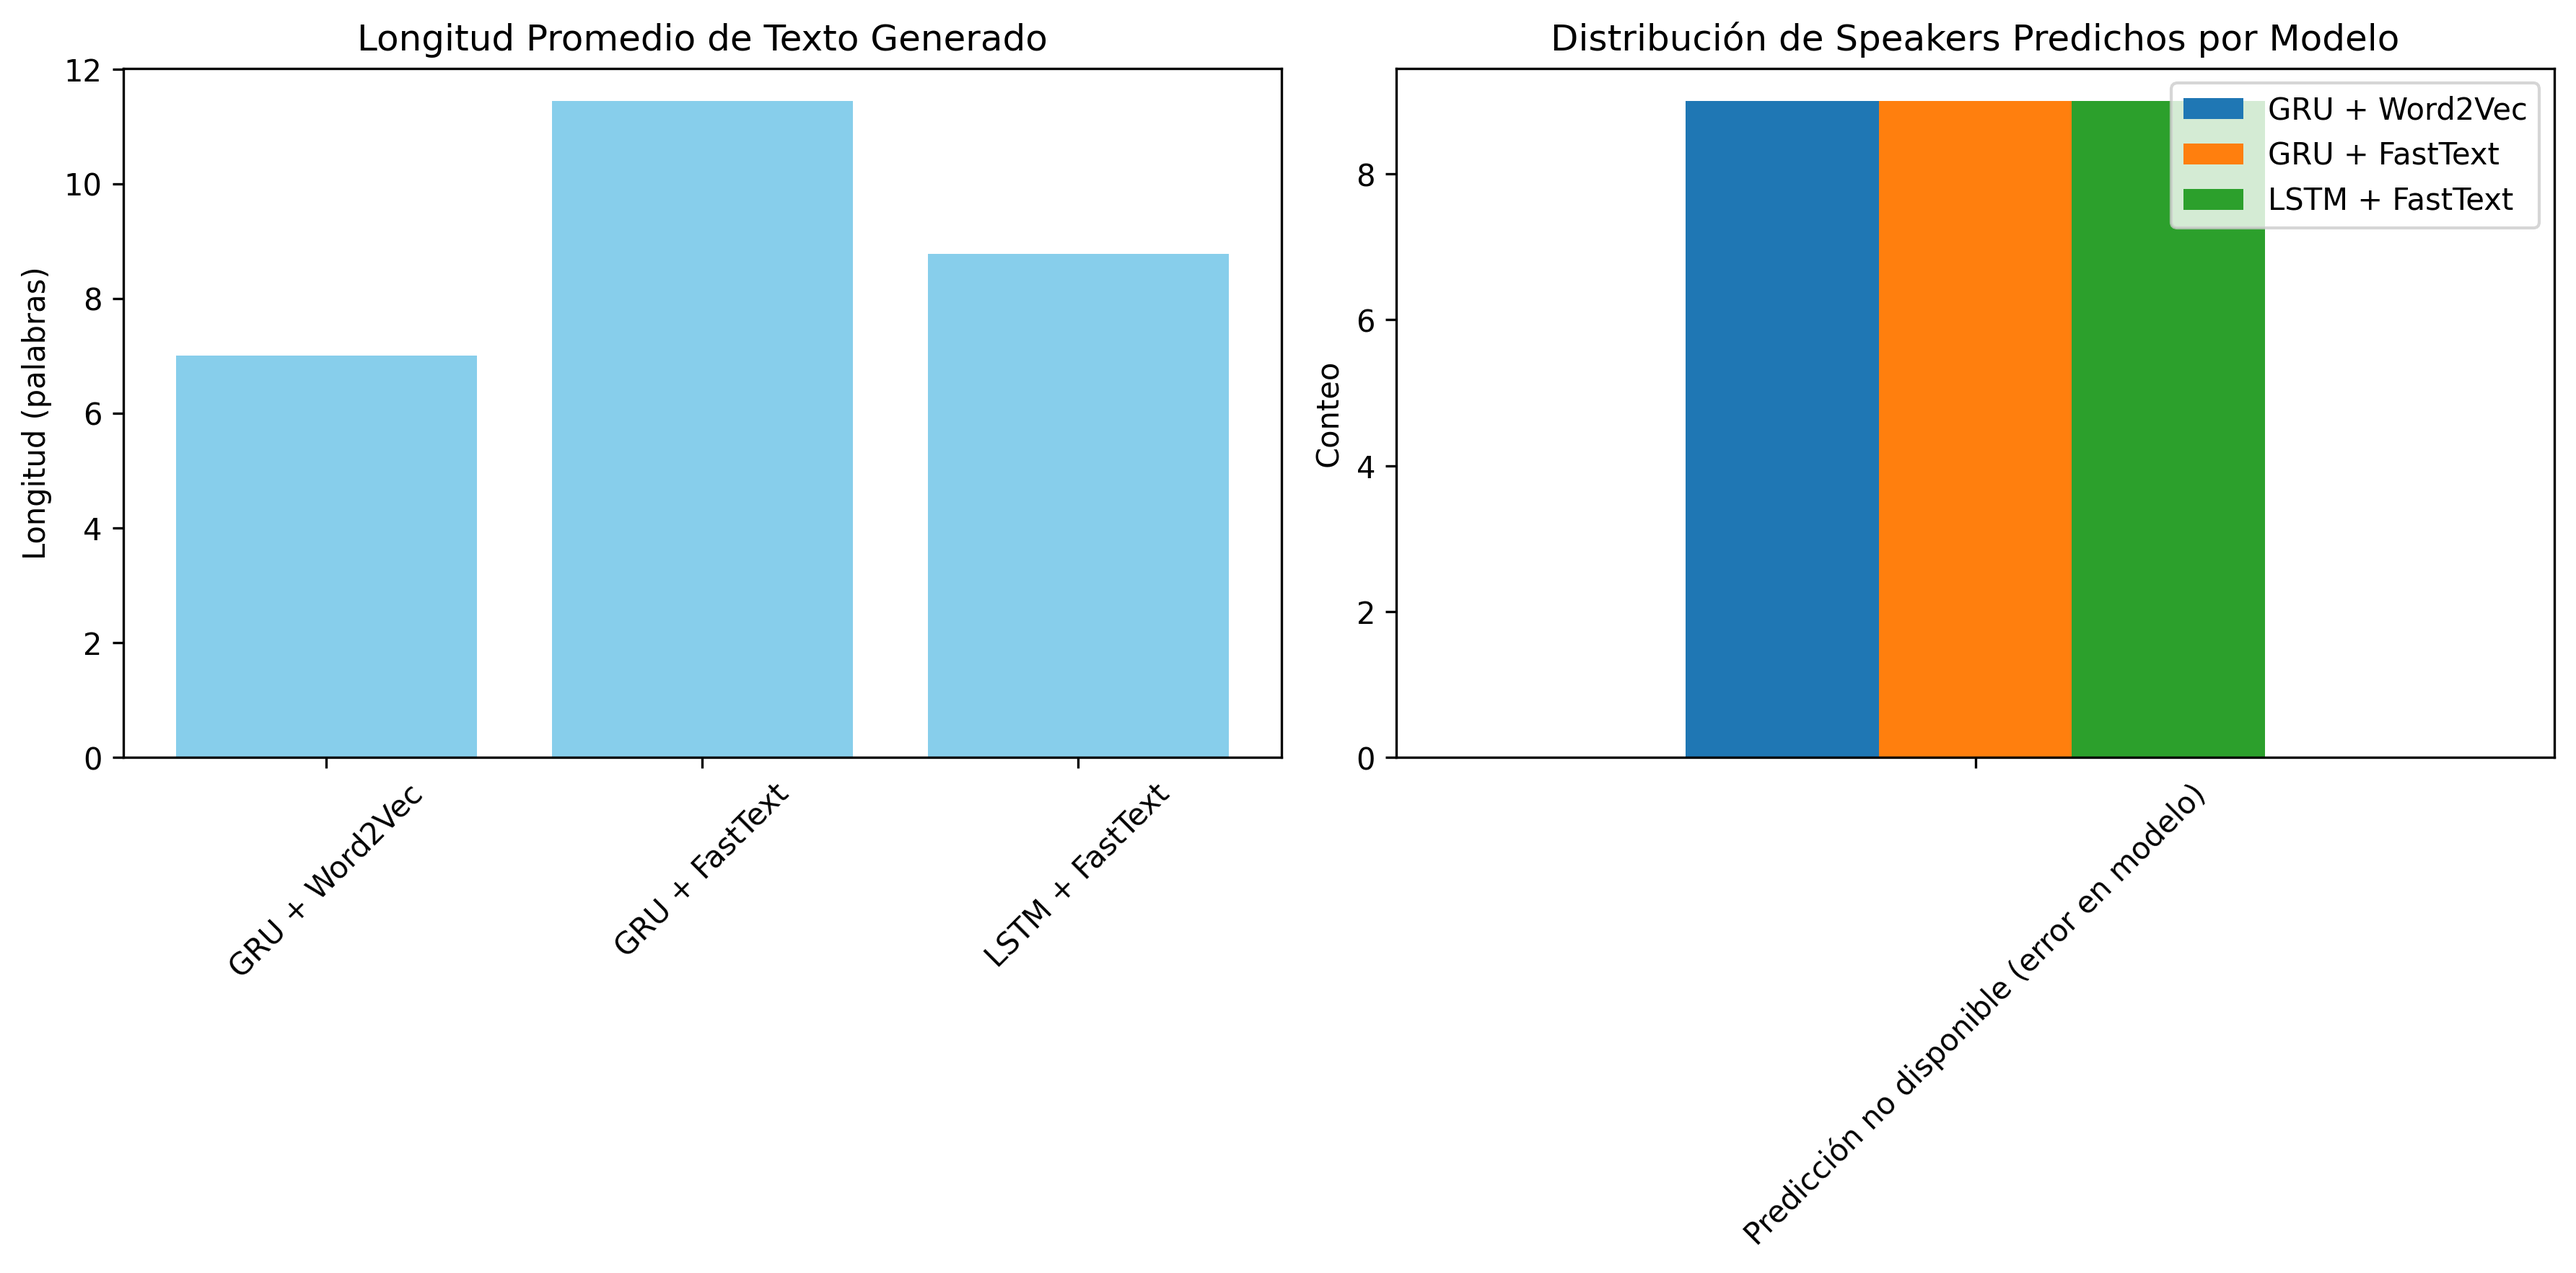
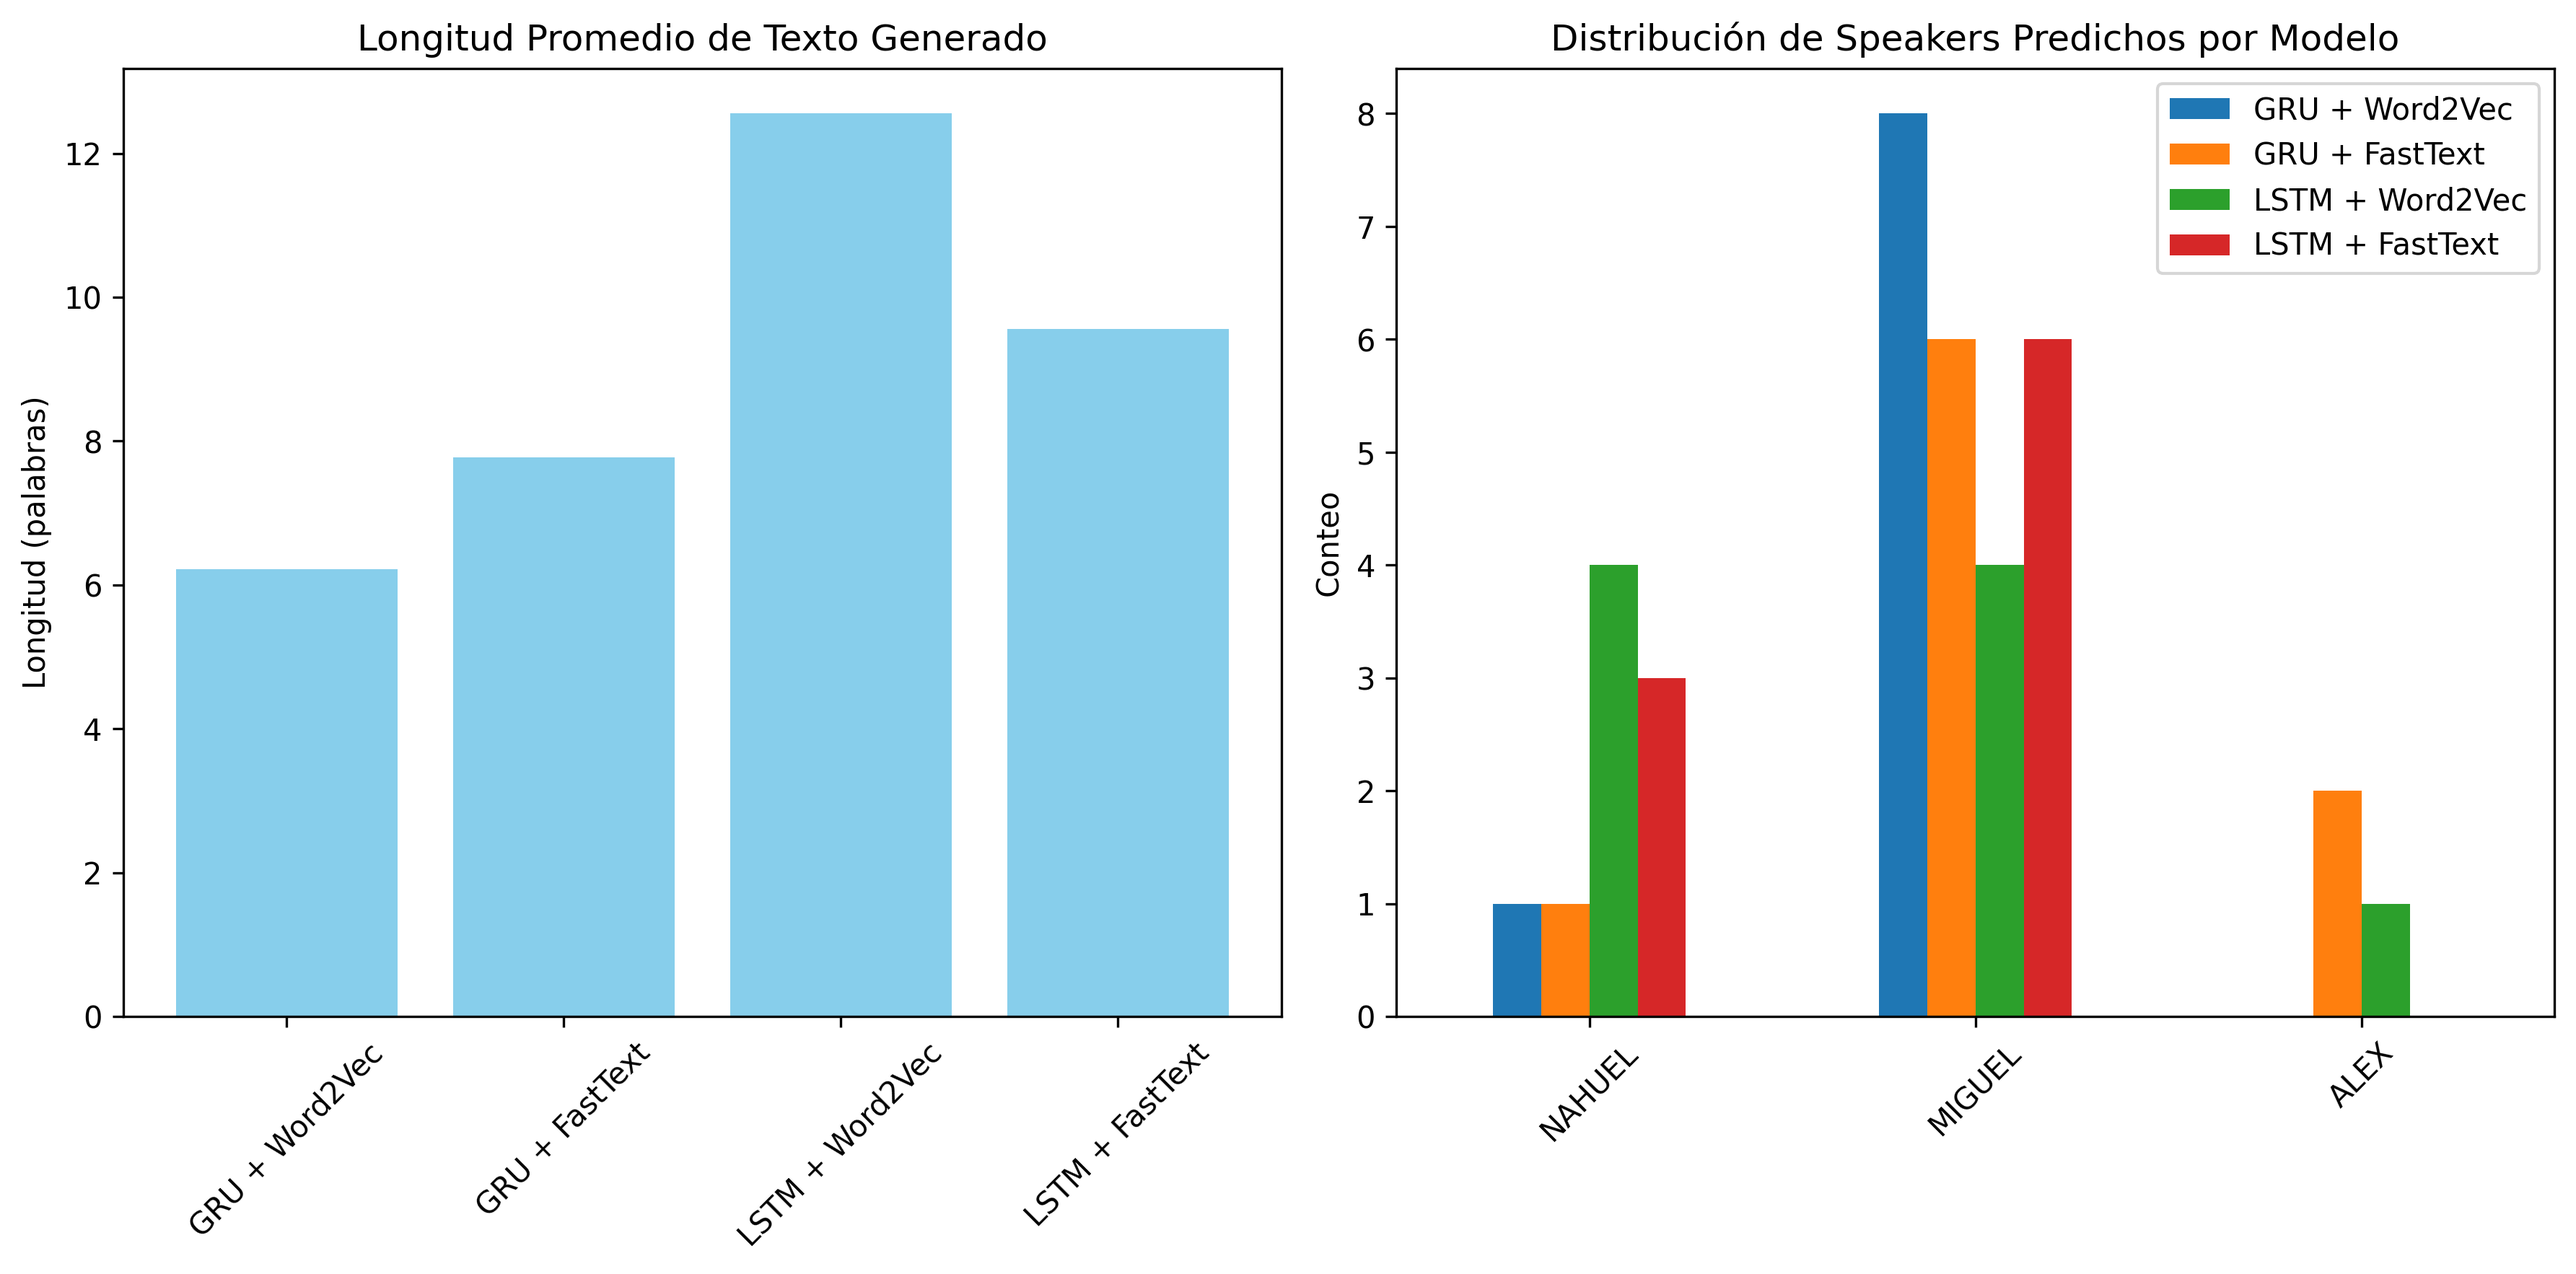
Ultimos arreglos

diff --git a/codigo/analisis/analisisModelosML_generacion.py b/codigo/analisis/analisisModelosML_generacion.py
@@ -1,6 +1,3 @@
-"""
-Análisis de modelos generado con IAg
-"""
 import ast
 import numpy as np
 import pandas as pd
@@ -23,29 +20,29 @@ device = torch.device('cuda' if torch.cuda.is_available() else 'cpu')
 model_configs = [
     {
         'name': 'GRU + Word2Vec',
-        'model_path': 'models/gru_word2vec_text_generator.pth',
-        'vocab_path': 'models/vocab_generator.pkl',
+        'model_path': '../../models/gru_word2vec_text_generator.pth',
+        'vocab_path': '../../models/vocab_generator.pkl',
         'embedding_type': 'word2vec',
         'model_type': 'gru'
     },
     {
         'name': 'GRU + FastText',
-        'model_path': 'models/gru_text_generator.pth',
-        'vocab_path': 'models/vocab_generator.pkl',
+        'model_path': '../../models/gru_text_generator.pth',
+        'vocab_path': '../../models/vocab_generator.pkl',
         'embedding_type': 'fasttext',
         'model_type': 'gru'
     },
-    # {
-    #     'name': 'LSTM + Word2Vec',
-    #     'model_path': 'models/word2vec_lstm.pth',
-    #     'vocab_path': 'models/vocab_generator.pkl',
-    #     'embedding_type': 'word2vec',
-    #     'model_type': 'lstm'
-    # },
+    {
+        'name': 'LSTM + Word2Vec',
+        'model_path': '../../models/lstm_word2vec_text_generator.pth',
+        'vocab_path': '../../models/vocab_lstm_word2vec.pkl',
+        'embedding_type': 'word2vec',
+        'model_type': 'lstm'
+    },
     {
         'name': 'LSTM + FastText',
-        'model_path': 'models/lstm_text_generator.pth',
-        'vocab_path': 'models/vocab_generator.pkl',
+        'model_path': '../../models/lstm_text_generator.pth',
+        'vocab_path': '../../models/vocab_generator.pkl',
         'embedding_type': 'fasttext',
         'model_type': 'lstm'
     }
@@ -53,13 +50,66 @@ model_configs = [
 
 # Carga del Modelo de Clasificación de Speaker
 print("Cargando modelo de clasificación de speaker...")
-perceptron_model = load('models/best_perceptron_tfidf.joblib')
-vectorizer = load('models/vec_tfidf_word.joblib')
-label_encoder = load('models/label_encoder_speaker.joblib')
+speaker_model_loaded = False
+try:
+    # Primero intentar cargar el modelo shallow TF-IDF que es más compatible
+    import joblib
+    import os
+    
+    # Intentar diferentes modelos en orden de preferencia
+    model_options = [
+        ('../../models/best_shallow_tfidf.joblib', '../../models/vec_tfidf_word.joblib', '../../models/label_encoder_shallow.joblib'),
+        ('../../models/best_perceptron_tfidf.joblib', '../../models/vec_tfidf_word.joblib', '../../models/label_encoder_speaker.joblib'),
+    ]
+    
+    for model_path, vec_path, encoder_path in model_options:
+        try:
+            if os.path.exists(model_path):
+                # Cargar con configuración especial para compatibilidad CPU
+                with open(model_path, 'rb') as f:
+                    import sys
+                    import io
+                    
+                    # Crear un unpickler personalizado que redirija CUDA a CPU
+                    class CPUUnpickler(pickle.Unpickler):
+                        def find_class(self, module, name):
+                            if module == 'torch.storage' and name == '_load_from_bytes':
+                                return lambda b: torch.load(io.BytesIO(b), map_location='cpu')
+                            return super().find_class(module, name)
+                    
+                    try:
+                        perceptron_model = CPUUnpickler(f).load()
+                    except:
+                        f.seek(0)
+                        perceptron_model = joblib.load(f)
+                
+                vectorizer = joblib.load(vec_path)
+                label_encoder = joblib.load(encoder_path)
+                speaker_model_loaded = True
+                print(f"Modelo de speaker cargado exitosamente: {model_path}")
+                break
+        except Exception as e:
+            continue
+    
+    if not speaker_model_loaded:
+        raise Exception("No se pudo cargar ningún modelo de clasificación")
+        
+except Exception as e:
+    print(f"Advertencia: Modelo de speaker no disponible - {e}")
+    print("El análisis continuará sin predicción de speakers.")
+    speaker_model_loaded = False
 
 # Función para predecir speaker
 def predict_speaker(text):
-    return "Predicción no disponible (error en modelo)"
+    if not speaker_model_loaded:
+        return "Modelo no disponible"
+    try:
+        text_vectorized = vectorizer.transform([text])
+        prediction = perceptron_model.predict(text_vectorized)
+        speaker = label_encoder.inverse_transform(prediction)[0]
+        return speaker
+    except Exception as e:
+        return f"Error: {str(e)[:50]}"
 
 # Clase Modelo Base (adaptada de los scripts)
 class TextGenerator(nn.Module):
@@ -313,7 +363,7 @@ plt.ylabel('Conteo')
 plt.xticks(rotation=45)
 
 plt.tight_layout()
-plt.savefig('graficos/analisis_generacion_texto.png', dpi=300, bbox_inches='tight')
+plt.savefig('../../graficos/analisis_generacion_texto.png', dpi=300, bbox_inches='tight')
 plt.show()
 
 print("\nAnálisis completado. Gráfico guardado en 'graficos/analisis_generacion_texto.png'")

diff --git a/codigo/modelos ML/generacion texto/lstm_word2vec.py b/codigo/modelos ML/generacion texto/lstm_word2vec.py
@@ -29,7 +29,7 @@ BATCH_SIZE = 128
 LEARNING_RATE = 0.0005
 
 # Carga de Datos
-df = pd.read_csv("dataset/dataset_preprocesado.csv")
+df = pd.read_csv("../../../dataset/dataset_preprocesado.csv")
 df = df[df["speaker"] == "MIGUEL"].copy()
 
 def parse_list(x):
@@ -44,7 +44,7 @@ df["lemmas_no_stop"] = df["lemmas_no_stop"].apply(parse_list)
 df = df[df["lemmas_no_stop"].apply(len) >= 3].copy()
 
 # Carga de Word2Vec
-w2v_model = Word2Vec.load("models/w2v.model")
+w2v_model = Word2Vec.load("../../../models/w2v.model")
 word2vec = w2v_model.wv
 
 vocab = {"<PAD>": 0, "<UNK>": 1, "<START>": 2, "<END>": 3}
@@ -265,7 +265,7 @@ for epoch in range(EPOCHS):
     if val_loss < best_val_loss:
         best_val_loss = val_loss
         patience_counter = 0
-        torch.save(model.state_dict(), 'models/best_lstm_word2vec_generator.pth')
+        torch.save(model.state_dict(), '../../../models/best_lstm_word2vec_generator.pth')
     else:
         patience_counter += 1
         if patience_counter >= patience:
@@ -273,7 +273,7 @@ for epoch in range(EPOCHS):
             break
 
 # Guardado de Modelo
-model.load_state_dict(torch.load('models/best_lstm_word2vec_generator.pth'))
+model.load_state_dict(torch.load('../../../models/best_lstm_word2vec_generator.pth'))
 torch.save({
     'model_state_dict': model.state_dict(),
     'vocab_size': vocab_size,
@@ -282,9 +282,9 @@ torch.save({
     'num_layers': LSTM_LAYERS,
     'dropout': DROPOUT,
     'seq_length': SEQ_LENGTH
-}, 'models/lstm_word2vec_text_generator.pth')
+}, '../../../models/lstm_word2vec_text_generator.pth')
 
-with open('models/vocab_generator.pkl', 'wb') as f:
+with open('../../../models/vocab_lstm_word2vec.pkl', 'wb') as f:
     pickle.dump({'vocab': vocab, 'idx_to_word': idx_to_word, 'seq_length': SEQ_LENGTH}, f)
 
 # Generación de Texto
@@ -319,3 +319,24 @@ def generate_text(model, start_text, vocab, idx_to_word, max_length=50,
                 context.append(next_idx)
     
     return generated
+
+# Prueba de Generación
+print("\n" + "="*60)
+print("PRUEBAS DE GENERACIÓN DE TEXTO")
+print("="*60)
+
+starts = [["fútbol"], ["partido"], ["jugador"]]
+temperatures = [0.5, 1.0, 1.5]
+
+for start in starts:
+    print(f"\n--- Inicio: {' '.join(start)} ---")
+    for temp in temperatures:
+        text = generate_text(model, start, vocab, idx_to_word, max_length=30, temperature=temp)
+        print(f"T={temp}: {' '.join(text)}")
+
+print("\n" + "="*60)
+print("Modelo y vocabulario guardados exitosamente:")
+print("  - ../../../models/lstm_word2vec_text_generator.pth")
+print("  - ../../../models/best_lstm_word2vec_generator.pth")
+print("  - ../../../models/vocab_lstm_word2vec.pkl")
+print("="*60)
